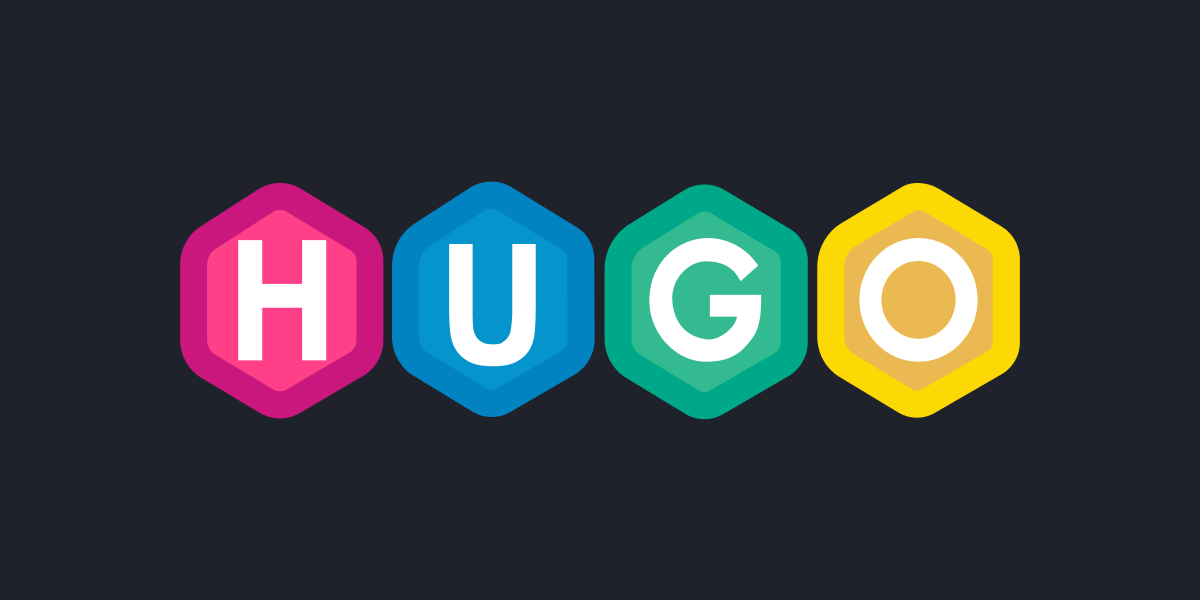
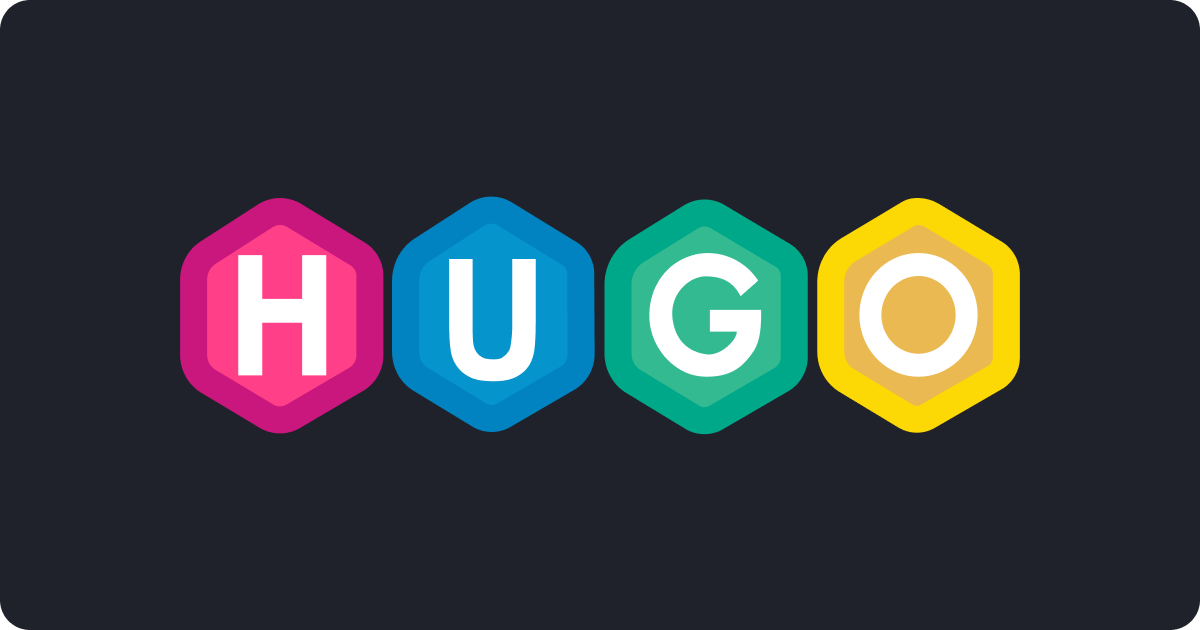
rebuilding site Sun, Sep 12, 2021  9:00:03 AM

diff --git a/cara-membuat-toc-di-hugo/index.html b/cara-membuat-toc-di-hugo/index.html
@@ -27,7 +27,7 @@
 <meta property="og:description" content="Kalian pasti sering lihat di sebuah blog ada sebuah TOC (Table of Content) atau daftar isi, sebenarnya daftar isi itu buat apa sih ? dan gunanya TOC di blog itu apa sih ?">
 <meta property="og:url" content="/cara-membuat-toc-di-hugo/">
 <meta property="og:site_name" content="lightning-x">
-<meta property="og:image" content="/img/hugo-thumb_hu30aa4d81e3ee081babed9fe842b0ef92_29495_1024x280_resize_box_3.png">
+<meta property="og:image" content="/img/hugo-thumb_hu8db623aa3c6ae8adcc2e7c47eab9edb2_30784_1024x280_resize_box_3.png">
 <meta property="og:image:width" content="1200">
 <meta property="og:image:height" content="600">
 <meta property="article:published_time" content="2021-09-06 18:18:35 +0700 +07">
@@ -69,8 +69,8 @@ lightning-x
 #<a href=/tags/ssg/>SSG</a>&nbsp;
 </span>
 <picture>
-<source type=image/webp srcset=/img/hugo-thumb_hu30aa4d81e3ee081babed9fe842b0ef92_29495_1024x0_resize_q50_h2_box_3.webp>
-<source type=image/jpeg srcset=/img/hugo-thumb_hu30aa4d81e3ee081babed9fe842b0ef92_29495_1024x0_resize_q50_bgffffff_box_3.jpg>
+<source type=image/webp srcset=/img/hugo-thumb_hu8db623aa3c6ae8adcc2e7c47eab9edb2_30784_1024x0_resize_q50_h2_box_3.webp>
+<source type=image/jpeg srcset=/img/hugo-thumb_hu8db623aa3c6ae8adcc2e7c47eab9edb2_30784_1024x0_resize_q50_bgffffff_box_3.jpg>
 <img src=/img/hugo-thumb.png alt class=img-fluid width=1024>
 </picture>
 <div class=table-of-contents>
